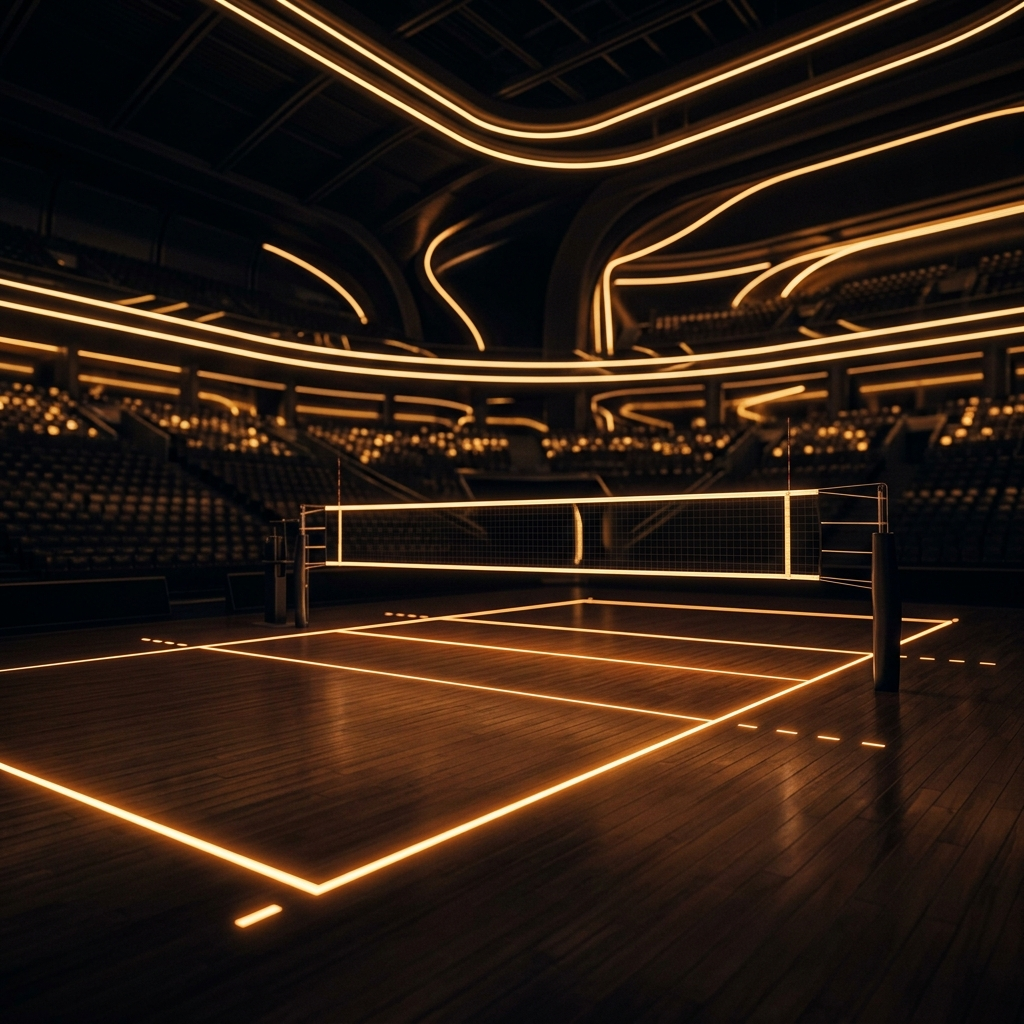
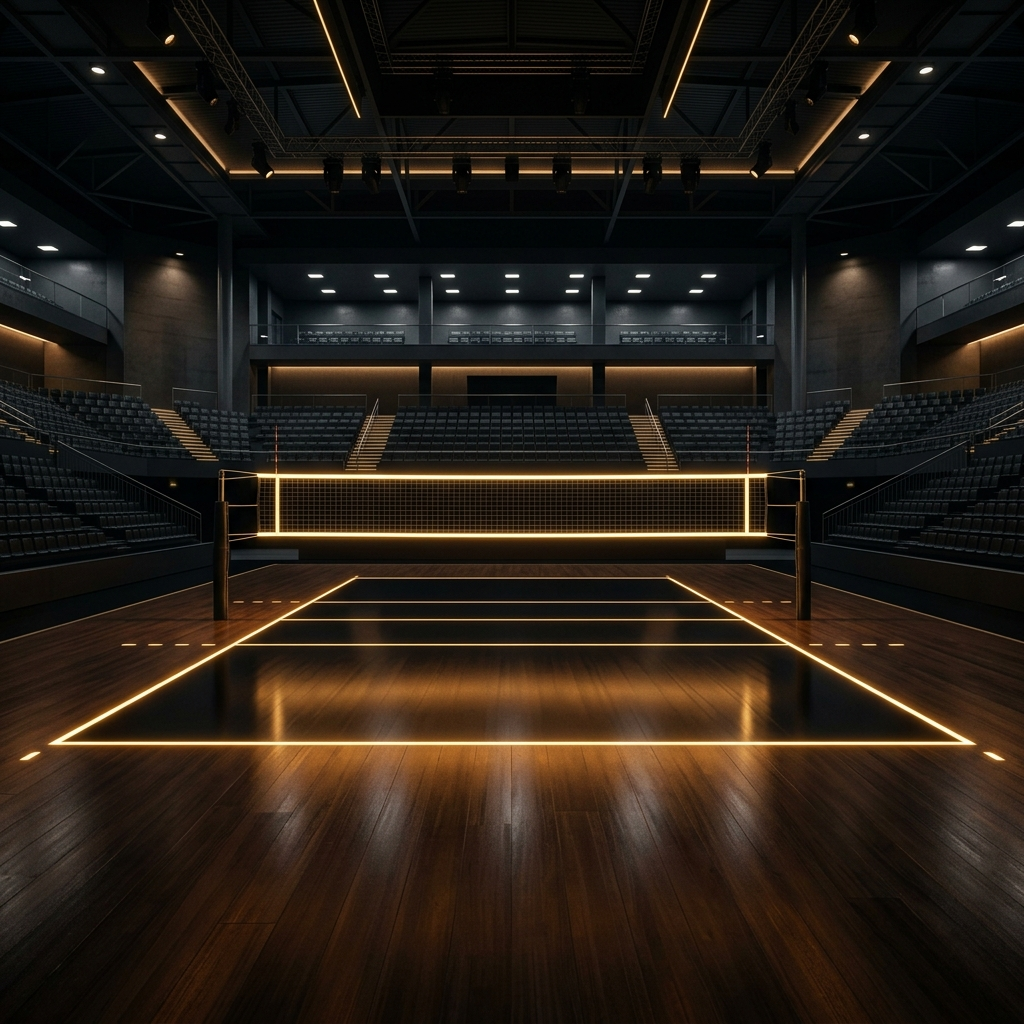
Update volleyball background asset and improve text contrast for match kickoff times

diff --git a/src/app/markets/[id]/page.js b/src/app/markets/[id]/page.js
@@ -530,7 +530,13 @@ export default function MatchDetail() {
                           </span>
                       </div>
                   ) : (
-                      <span className={`text-sm font-mono mb-2 block ${market.teamA === 'Mexico' && market.teamB === 'South Africa' ? 'text-amber-400 font-bold' : 'text-zinc-300'}`}>{market.dateStr} • {market.timeStr} {market.tz}</span>
+                      <span className={`text-sm font-mono mb-2 block ${
+                        market.teamA === 'Mexico' && market.teamB === 'South Africa' 
+                          ? 'text-yellow-400 font-bold' 
+                          : isVolleyball 
+                          ? 'text-amber-400 font-bold drop-shadow-[0_1px_5px_rgba(245,158,11,0.6)]' 
+                          : 'text-zinc-300 font-semibold'
+                      }`}>{market.dateStr} • {market.timeStr} {market.tz}</span>
                   )}
                   <div className="grid grid-cols-3 items-center w-full text-center text-3xl md:text-5xl font-extrabold mb-4 relative z-10">
                       {/* Team A */}

diff --git a/src/app/markets/page.js b/src/app/markets/page.js
@@ -321,7 +321,13 @@ function MarketsContent() {
                                     </span>
                                 </div>
                             ) : (
-                                <span className={`text-sm font-mono mb-2 block ${isMexicoSA ? 'text-zinc-400 font-medium' : 'text-zinc-500'}`}>{m.timeStr} {m.tz}</span>
+                                <span className={`text-sm font-mono mb-2 block ${
+                                  isMexicoSA 
+                                    ? 'text-yellow-400/80 font-bold' 
+                                    : isVolleyball 
+                                    ? 'text-amber-400/90 font-bold drop-shadow-[0_1px_5px_rgba(245,158,11,0.6)]' 
+                                    : 'text-zinc-300 font-semibold'
+                                }`}>{m.timeStr} {m.tz}</span>
                             )}
                             
                             {/* Predictions Placed Badge */}

diff --git a/src/components/WhitelistGuard.jsx b/src/components/WhitelistGuard.jsx
@@ -53,9 +53,10 @@ export default function WhitelistGuard({ children }) {
   }
 
   const isWhitelisted = isWalletWhitelisted(walletAddress);
+  const isLocalhost = typeof window !== 'undefined' && (window.location.hostname === 'localhost' || window.location.hostname === '127.0.0.1');
 
-  // If connected AND whitelisted, grant access
-  if (connected && isWhitelisted) {
+  // If connected AND whitelisted (or running on localhost), grant access
+  if (isLocalhost || (connected && isWhitelisted)) {
     return <>{children}</>;
   }
 